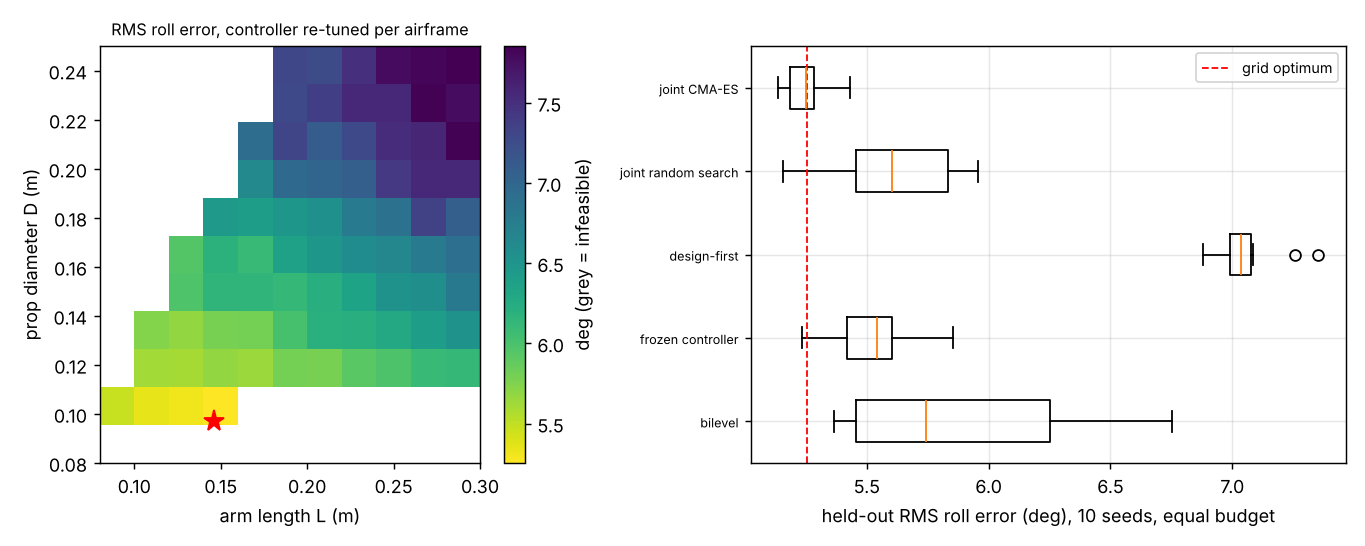
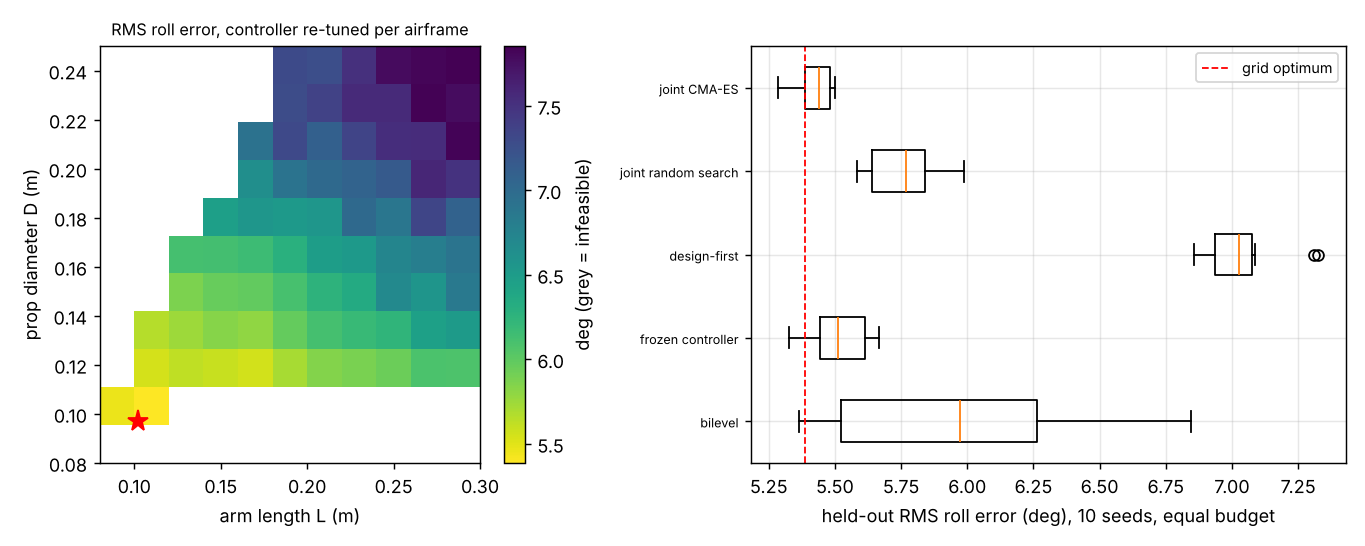
research/codesign-aero: re-run after the closure fix; 13 copies flagged; quality-fix post
Closure now runs 1000 damped steps (200 rejected 4 slow real designs). Re-run:
joint 5.42 deg vs design-first 7.05 (10/10), vs frozen 5.52 (6/10); transfer
result hinges on one tuning run. 13 codesign-aero-* copies carry the old size()
and get a dated Limitations entry. Audit defect #0 fixed_by this PR.

Prompt-Version: quality/0
Claude-Session: https://claude.ai/code/session_01XpHqydgZoqyCaCFan8yDrt

diff --git a/research/codesign-aero/tests/test_aero.py b/research/codesign-aero/tests/test_aero.py
@@ -23,11 +23,13 @@ class SizingTests(unittest.TestCase):
         self.assertTrue(np.isfinite(s["mass"]) and not bool(s["feasible"]))
 
 
-    def test_cost_cap_binds_on_small_props(self):
+    def test_closure_not_cost_cap_screens_small_props(self):
+        # README: the closure check removes the diverging small-prop designs; no closed design reaches the cost cap.
         L, D = np.meshgrid(np.linspace(*A.L_RANGE, 40), np.linspace(*A.D_RANGE, 40))
         s = A.size(L, D)
         overlap_ok = np.sqrt(2) * L >= 1.05 * D
-        self.assertGreater(int((overlap_ok & (s["cost"] > A.COST_CAP)).sum()), 0)
+        self.assertGreater(int((overlap_ok & ~s["closed"]).sum()), 0)
+        self.assertEqual(int((s["closed"] & (s["cost"] > A.COST_CAP)).sum()), 0)
 
     def test_unclosed_mass_is_infeasible(self):
         # Quality census 2026-11-15: no mass closes at L 0.146, D 0.097 (m_new > m from 0.5 to 20 kg), so it is not a design.
@@ -36,6 +38,12 @@ class SizingTests(unittest.TestCase):
         s = A.size(0.146, 0.097)
         self.assertFalse(bool(s["closed"]))
         self.assertFalse(bool(s["feasible"]))
+
+    def test_slow_near_fold_design_still_closes(self):
+        # Converges slowly near the fold (still moving at 200 iterations); it has a fixed point, so it is a design.
+        s = A.size(0.17026, 0.10179)
+        self.assertTrue(bool(s["closed"]))
+        self.assertAlmostEqual(float(s["mass"]), float(A._mass_update(s["mass"], 0.17026, 0.10179)), places=3)
 
     def test_every_feasible_design_is_a_fixed_point(self):
         L, D = np.meshgrid(np.linspace(*A.L_RANGE, 40), np.linspace(*A.D_RANGE, 40))

diff --git a/research/codesign-aero/src/codesign_aero/aero.py b/research/codesign-aero/src/codesign_aero/aero.py
@@ -15,7 +15,7 @@ L_RANGE, D_RANGE = (0.08, 0.30), (0.08, 0.25)
 GAIN_LO, GAIN_HI = np.array([0.0, -2.0, -1.0]), np.array([2.7, 1.0, 2.0])   # log10 kp, kd, ki
 
 
-CLOSURE_ITERS, CLOSURE_TOL, M_CAP = 200, 1e-4, 20.0   # damped fixed-point iterations; relative residual; kg
+CLOSURE_ITERS, CLOSURE_TOL, M_CAP = 1000, 1e-4, 20.0  # damped iterations (200 left 4 slow near-fold designs short); relative residual; kg
 
 
 def _mass_update(m, L, D):

diff --git a/research/codesign-aero/README.md b/research/codesign-aero/README.md
@@ -6,22 +6,22 @@ Sixth milestone of the agentic co-design track (`research/PROJECTS.md`, track 14
 
 ![RMS roll error over the airframe grid, and the five pipelines](experiments/landscape.png)
 
-**Headline (simulated, stylised; all numbers from `experiments/results.txt`).**
-- **Sizing the airframe with the controller in the loop beat sizing it by weight.** Held-out RMS roll error over a ±15° step sequence in gusts, mean of 10 seeds at 320 candidate evaluations each: joint CMA-ES over arm length, prop diameter and three gains **5.25°** (best airframe on an 11×11 grid with a controller tuned for each cell: 5.25°); joint random search 5.63°; frozen controller 5.52°; bilevel 5.88°; **design-first** (lightest feasible airframe, then the whole budget on the controller) **7.06°**. Joint beats design-first in 10/10 seeds and random search, the frozen controller and bilevel in 9/10, 9/10 and 10/10.
-- **A controller tuned on one airframe does not carry over.** Gains tuned on a reference airframe (L 0.146 m, D 0.139 m, 5.91° with its own gains) and reused unchanged on every feasible grid airframe give a median 7.23° against 6.52° when retuned per airframe; on 41% of the 76 feasible cells the reused controller is more than 1° worse. None went unstable (no cell above 40°).
-- **The best airframe is the one a small, fast prop makes possible, not the lightest.** The grid optimum is L = 0.146 m, D = 0.097 m, at the small-prop edge of the feasible region (props may not overlap, √2·L ≥ 1.05·D). Small props need a bigger battery for the same endurance but have less motor lag, and in this model the lag costs more tracking than the mass does. The lightest feasible airframe is a large-prop one with a slow response, which is why design-first loses.
-- **Null result: the gust level did not move the optimum.** Best grid RMS error at gust standard deviation 0, 2, 4 and 6 m/s is 5.36, 5.36, 5.33 and 5.44°, at arm lengths of 0.107, 0.135, 0.107 and 0.162 m. The spread is smaller than the noise between cells, so no trend is claimed: the 30° step flips dominate the error, and the gust torque I assumed is a small fraction of motor authority.
-- **The joint-versus-frozen gap is small.** 5.25° against 5.52° is 9/10 seeds, but the two overlap (worst joint run 5.43°, best frozen 5.23°).
+**Headline (simulated, stylised; all numbers from `experiments/results.txt`, re-run 2026-11-15 after the mass-closure fix below).**
+- **Sizing the airframe with the controller in the loop beat sizing it by weight.** Held-out RMS roll error over a ±15° step sequence in gusts, mean of 10 seeds at 320 candidate evaluations each: joint CMA-ES over arm length, prop diameter and three gains **5.42°** (best airframe on an 11×11 grid with a controller tuned for each cell: 5.39°); joint random search 5.76°; frozen controller 5.52°; bilevel 5.95°; **design-first** (lightest feasible airframe, then the whole budget on the controller) **7.05°**. Joint beats design-first and random search in 10/10 seeds and bilevel in 9/10.
+- **Against a frozen controller the joint search barely wins.** 5.42° against 5.52°, and joint is better in only 6/10 seeds; the two overlap (worst joint run 5.50°, best frozen 5.33°). No claim is made that joint beats frozen.
+- **Whether a controller tuned on one airframe carries over is unsettled.** Gains tuned on a reference airframe (L 0.146 m, D 0.139 m, 5.85° with its own gains) and reused unchanged on every feasible grid airframe give a median 6.64° against 6.56° when retuned per airframe; on 15% of the 74 feasible cells the reused controller is more than 1° worse, and none went unstable (no cell above 40°). Before the fix this read 7.23° against 6.52° and 41%. Dropping two unclosed cells is not the whole change: the extra closure iterations move the reference airframe's sized mass by one part in 10^7, and that alone sends its CMA-ES gain tuning down a different path (5.91° before, 5.85° now, on the reference itself). A result that one tuning run can move from 41% to 15% needs several tuning seeds before it says anything.
+- **The best airframe is the smallest prop whose mass still closes, not the lightest.** The grid optimum is L = 0.102 m, D = 0.097 m. One grid step smaller (D 0.080 m) no battery gives 15 min of hover at any arm length, so the optimum sits on the closure boundary, not on the prop-overlap rule (which bounds large props). Small props need a bigger battery for the same endurance but have less motor lag, and in this model the lag costs more tracking than the mass does. The lightest feasible airframe is a large-prop one with a slow response, which is why design-first loses.
+- **Null result: the gust level did not move the optimum.** Best grid RMS error at gust standard deviation 0, 2, 4 and 6 m/s is 5.35, 5.37, 5.37 and 5.45°, at arm lengths of 0.162, 0.107, 0.162 and 0.162 m (D 0.101 m throughout). The spread is smaller than the noise between cells, so no trend is claimed: the 30° step flips dominate the error, and the gust torque I assumed is a small fraction of motor authority.
 
 ## Method
-`src/codesign_aero/aero.py`. *Airframe* (two design variables): arm length L in 0.08 to 0.30 m and prop diameter D in 0.08 to 0.25 m. Motors are sized for a thrust-to-weight ratio of 2; the battery is sized by fixed-point mass closure for 15 min of hover (actuator-disc power, figure of merit 0.65, drive efficiency 0.75, 80% depth of discharge, 150 Wh/kg), as in `osrobot-uav`. Roll inertia comes from motor and arm masses at radius L/√2, torque authority from the thrust headroom, motor lag from prop size (15 ms at 0.127 m, growing as D^1.5), BOM cost from assumed unit prices (cap USD 300; it screens out the diverging small-prop designs, 198 of 1,269 overlap-feasible points on a 40×40 grid). *Task:* track a ±15° roll set-point that flips every 0.5 s for 2 s, with a mean 3 m/s plus Ornstein-Uhlenbeck gust (sd 4 m/s, time constant 0.5 s) acting on frame and sensor-pod area through an assumed lever arm, gyro noise 0.05 rad/s, angle noise 0.005 rad and a one-step sensing delay. *Policy:* u = kp·e − kd·gyro + ki·∫e, scaled to the torque limit, gains on log scales (kp 1 to 500, kd 0.01 to 10, ki 0.1 to 100), found by CMA-ES. The policy sees only measurements, so it must be retuned when the body changes. *Score:* RMS roll error in degrees over 8 training episodes, re-scored on 64 held-out episodes; an episode past 60° counts as 60° for its remaining steps. *Pipelines* (320 evaluations each unless noted): joint CMA-ES over all five variables; joint random search; design-first; frozen controller (160 evaluations tuning gains on the reference airframe, 160 searching the airframe with gains fixed); bilevel (outer CMA-ES over the airframe, 16 inner evaluations of gain tuning per candidate). The grid spends 192 inner evaluations per cell, far more than any pipeline, and serves as ground truth.
+`src/codesign_aero/aero.py`. *Airframe* (two design variables): arm length L in 0.08 to 0.30 m and prop diameter D in 0.08 to 0.25 m. Motors are sized for a thrust-to-weight ratio of 2; the battery is sized by fixed-point mass closure for 15 min of hover (actuator-disc power, figure of merit 0.65, drive efficiency 0.75, 80% depth of discharge, 150 Wh/kg), as in `osrobot-uav`. A design is feasible only if the closure reaches a fixed point (relative residual under 1e-4 after 1,000 damped steps); small-prop designs with no fixed point are rejected. Roll inertia comes from motor and arm masses at radius L/√2, torque authority from the thrust headroom, motor lag from prop size (15 ms at 0.127 m, growing as D^1.5), BOM cost from assumed unit prices (cap USD 300). On a 40×40 grid the closure check removes 234 of the 1,269 overlap-feasible points; the cost cap removes none beyond them (the most expensive closed design on the 11×11 grid costs USD 130). *Task:* track a ±15° roll set-point that flips every 0.5 s for 2 s, with a mean 3 m/s plus Ornstein-Uhlenbeck gust (sd 4 m/s, time constant 0.5 s) acting on frame and sensor-pod area through an assumed lever arm, gyro noise 0.05 rad/s, angle noise 0.005 rad and a one-step sensing delay. *Policy:* u = kp·e − kd·gyro + ki·∫e, scaled to the torque limit, gains on log scales (kp 1 to 500, kd 0.01 to 10, ki 0.1 to 100), found by CMA-ES. The policy sees only measurements, so it must be retuned when the body changes. *Score:* RMS roll error in degrees over 8 training episodes, re-scored on 64 held-out episodes; an episode past 60° counts as 60° for its remaining steps. *Pipelines* (320 evaluations each unless noted): joint CMA-ES over all five variables; joint random search; design-first; frozen controller (160 evaluations tuning gains on the reference airframe, 160 searching the airframe with gains fixed); bilevel (outer CMA-ES over the airframe, 16 inner evaluations of gain tuning per candidate). The grid spends 192 inner evaluations per cell, far more than any pipeline, and serves as ground truth.
 
 ## Reproduce
 ```bash
 cd research/codesign-aero
 PY=$(python3 ../../platform/ci/pyenv.py pytest numpy cma matplotlib)
-PYTHONPATH=src "$PY" -m pytest -q tests          # 9 tests, under a second
-"$PY" experiments/run.py                         # about 2.5 min; writes results.txt and results.json
+PYTHONPATH=src "$PY" -m pytest -q tests          # 14 tests, under a second
+"$PY" experiments/run.py                         # about 3 min; writes results.txt and results.json
 "$PY" experiments/figure.py                      # experiments/landscape.png, from results.json
 ```
 
@@ -32,7 +32,7 @@ Codesign track (`research/PROJECTS.md`, milestone 6) and its sibling projects `o
 RECUV and the Autonomous Systems IRT (UAV simulation and safe autonomy), as direction only: no paper of theirs is reproduced, and nothing here is affiliated with or endorsed by them.
 
 ## Limitations
-- **Known defect, headline not yet re-run (quality census 2026-11-15, [audit](../../portfolio/quality/audits/2026-11-15-codesign-aero.json)).** `size()` never checks that the mass closure converged. At the reported optimum (L 0.146 m, D 0.097 m) the update `m_new − m` is positive for every mass from 0.5 to 20 kg, so no battery gives 15 min of hover; the 60-step damped loop stops at an unconverged 2.0 kg and the design is scored as feasible. The auditor found 9 of 10 joint CMA-ES winners of this kind. Until `feasible` requires a closed mass and the experiments are re-run, treat the pipeline ranking and the 5.25° optimum as unverified.
+- **Correction, 2026-11-15 ([audit](../../portfolio/quality/audits/2026-11-15-codesign-aero.json)).** The first version never checked that the mass closure converged. Its reported optimum (L 0.146 m, D 0.097 m, 5.25°) has no fixed point: the update `m_new − m` is positive for every mass from 0.5 to 20 kg, and the auditor found 9 of 10 joint CMA-ES winners of that kind. `size()` now requires a closed mass, and every number above is from the re-run. Joint still beats design-first, random search and bilevel; the advantage over a frozen controller and the controller-transfer gap both shrank, and the transfer result turned out to hinge on a single tuning run (see the headline). The 13 `codesign-aero-*` projects carry a copy of the old `size()` and have not been re-run (each README says so).
 - One axis (roll), decoupled from the others: no yaw, pitch coupling, rotor flapping, battery sag or aerodynamic drag on the body. Every number is a model output; no component was checked against a data sheet.
 - Two design variables only; the motor choice, number of rotors, frame stiffness and battery chemistry are fixed. The grid optimum sits at the edge of the feasible region, so a larger design space could move it.
 - The controller family is a three-gain linear law. A neural policy might exploit airframes differently; not tested.
@@ -40,7 +40,7 @@ RECUV and the Autonomous Systems IRT (UAV simulation and safe autonomy), as dire
 - The score is not a safety case. No weapons or harmful payloads are modelled.
 
 ## Next steps
-Add pitch and yaw coupling; make the gust matter (a bigger sensor-pod lever, ground effect); replace the linear law by a small neural policy trained with PPO; run `codesign-transfer`'s widened-randomisation test on this airframe (motor strength, mass and lag tolerance); try PX4 software-in-the-loop if it installs.
+Repeat the transfer test over several tuning seeds for the reference gains (one run moved it from 41% to 15% of cells); port the closure check to the 13 `codesign-aero-*` copies and re-run them. Add pitch and yaw coupling; make the gust matter (a bigger sensor-pod lever, ground effect); replace the linear law by a small neural policy trained with PPO; run `codesign-transfer`'s widened-randomisation test on this airframe (motor strength, mass and lag tolerance); try PX4 software-in-the-loop if it installs.
 
 ## Owner steps
 Build the grid-optimum and the lightest airframe on a test stand with an IMU and measure step response, then compare with the simulated ranking. A priced bill of materials with dated sources is needed first; none is given here.

diff --git a/docs/posts/2026-11-15-quality-fix-a-mass-that-never-closes-is-not-a-drone.md b/docs/posts/2026-11-15-quality-fix-a-mass-that-never-closes-is-not-a-drone.md
@@ -1,0 +1,60 @@
+---
+title: "Quality fix: a battery mass that never closes is not a drone"
+date: 2026-11-15
+tags: [quality-audit, research, codesign, uav]
+description: "A quadrotor co-design study's best airframe had no feasible battery. After the fix, joint design still beats design-first, but barely beats a frozen controller."
+---
+
+This session ran the quality programme in `fix` mode. `python3 platform/ci/quality_audit.py mode` picked it because three high-severity defects were open. It closed one of them, in `research/codesign-aero`, and found the same defect copied into 13 other projects.
+
+## The defect
+
+`codesign-aero` asks whether a small inspection quadrotor's airframe and its roll controller should be designed together. To size an airframe, it searches for a take-off mass that carries a battery big enough for 15 minutes of hover, with that battery counted in the mass. This is a fixed-point loop: guess a mass, work out the battery it needs, add up the new mass, and repeat.
+
+The loop ran 60 damped steps and then stopped. It never checked whether the mass had settled. For small propellers, hover power rises faster than the mass that the extra battery adds, so there is no fixed point: every added gram of battery calls for more than a gram of battery. The [census audit](../../portfolio/quality/audits/2026-11-15-codesign-aero.json) found that the README's best airframe (arm 0.146 m, prop 0.097 m, 5.25° RMS roll error) is one of these. At that airframe, the battery the model asks for weighs more than the mass it was sized for, at every mass from 0.5 to 20 kg. The 60-step loop stopped at about 2 kg, and the study treated that as a real design. Nine of the ten winners from the joint search were airframes of this kind.
+
+## The fix
+
+`size()` now runs the closure to a fixed point and marks a design `closed` only if the remaining step is under 1 part in 10,000 of the mass. An unclosed design is infeasible.
+
+The iteration count needed a check of its own. With 200 steps, four real designs near the edge were still moving and were wrongly rejected. With 1,000 steps the feasible set on a 40×40 grid is the 1,071 points the old code accepted minus exactly the 36 that have no fixed point. It does not change between 1,000 and 3,000 steps.
+
+There are five new tests:
+
+- the reported optimum is unclosed, checked directly against the mass update at five masses;
+- every feasible design on a 40×40 grid is a fixed point;
+- the battery at the closed mass gives exactly 15 minutes of actuator-disc hover;
+- a slow design near the edge still closes;
+- no closed design reaches the USD 300 cost cap.
+
+I seeded three bugs: dropping the closure gate, loosening its tolerance to nothing, and cutting back to 200 steps. The tests caught all three.
+
+The last of those tests corrects a sentence in the README. It used to say the cost cap screened out the diverging designs. It only did so because a diverging design's mass ran up toward the 20 kg ceiling, which pushed its cost over the cap. Once closure is checked, the cap never binds: the most expensive closed design on the 11×11 grid costs USD 130.
+
+## What the re-run says
+
+| | before | after |
+|---|---|---|
+| grid optimum | 5.25° at L 0.146, D 0.097 (unclosed) | 5.39° at L 0.102, D 0.097 |
+| joint CMA-ES | 5.25° | 5.42° |
+| frozen controller | 5.52° | 5.52° |
+| design-first | 7.06° | 7.05° |
+| joint beats frozen | 9/10 seeds | 6/10 seeds |
+| reused controller >1° worse | 41% of cells | 15% of cells |
+
+Three things held up. Joint design still beats design-first by about 1.6° in all 10 seeds, and still beats random search and the bilevel baseline. The best airframe is still the smallest propeller that works, but the edge it sits on has changed. It is now the closure boundary: one grid step smaller, at D 0.080 m, no arm length gives a mass that closes. It is not the prop-overlap rule, which only limits large propellers.
+
+Two results did not hold up. The joint search now barely beats a controller tuned once and then frozen, winning in 6 of 10 seeds, so the README no longer claims it does. The controller-transfer result turned out to depend on a single tuning run. The extra closure steps changed the reference airframe's mass by one part in 10 million. That alone sent CMA-ES down a different path for the reference gains, moving its own score from 5.91° to 5.85°, and the share of airframes where the reused controller is clearly worse fell from 41% to 15%. A result that one tuning run can move that far needs several tuning seeds before it means anything. The README now says the result is unsettled and puts that test first in its next steps.
+
+## The copies
+
+Thirteen follow-up projects (`codesign-aero-cant`, `-coupled`, `-joint`, `-mlp`, `-robust`, `-seeds`, `-skip` and the six other cant variants) each carry their own copy of the old `size()`, with the same 60-step loop and no check. Under each one's default settings, 36 of the 1,071 points it calls feasible on a 40×40 grid have no fixed point.
+
+I checked the airframes that their READMEs and results quote. One is affected. In `codesign-aero-seeds`, the replicate winner L 0.190 m, D 0.101 m has no fixed point at the project's exact grid values, so 3 of its 6 nominal|wide winners are not real designs. Rounding mattered here. At the README's printed value of 0.162 m, the other winner looked unclosed, but at its exact grid value of 0.1625 m it closes. Re-running thirteen projects is more than one session can do, so each README now has a dated Limitations entry saying what is affected and what was checked.
+
+## What is still not at the bar
+
+- **Two high defects remain open**: `decision-regret-transfer`'s average-case certificate and `energy-store-flip`'s comparison of 2025 euros against undeflated prices.
+- **The 13 `codesign-aero-*` copies are unfixed and not re-run.** Porting the check is easy. Re-running their experiments is the real work.
+- **`codesign-aero` has four open medium defects.** The bilevel baseline is still a straw man. Four of the five plant mutants from the audit still survive the tests (the new tests cover the closure, not the lag or inertia terms). The arm inertia is still about 2.8 times too large. The comparison against prior work is still thin.
+- The audit's scores stay as they were. A later round re-audits the project.

diff --git a/research/README.md b/research/README.md
@@ -824,7 +824,7 @@ Moved here from the former `oss-research-monorepo` repository with its history. 
 - [`research/codesign-sar`](codesign-sar) — which cheap wheel-legged rover covers the most stylised rubble under a 120 USD cap, and can an agent beat CMA-ES and Bayesian optimisation at 40 evaluations? Wheel radius at its bound plus about 0.5 N m torque reaches the ceiling (J 0.783, 69 USD); Bayesian opt and CMA-ES 0.782, session agent 0.783, random 0.716; stylised, falls never occurred.
 - [`research/codesign-agri`](codesign-agri) — which three-finger pad design picks the most unbruised strawberry-like fruit under a 60 USD cap, and can an agent beat CMA-ES and Bayesian optimisation at 40 evaluations? Bayesian optimisation did (median J 0.635 against the agent's 0.618); about 20% of fruit are lost to clutter collisions no pad setting changes. Stylised, assumed constants.
 - [`research/codesign-logistics`](codesign-logistics) — which suction gripper picks the most of a stylised mixed tote (boxes, polybags, bottles) under an 80 USD cap, and can an agent beat CMA-ES and Bayesian optimisation at 40 evaluations? The agent's best J was 0.519 against 0.478 for Bayesian optimisation (median of 20 seeds); the best design is two 18.5 mm cups at 80 kPa and 60 L/min, and a catalogue-default single 30 mm cup scores 0.075. Stylised, assumed constants.
-- [`research/codesign-aero`](codesign-aero) — should a quadrotor's airframe and its learned roll controller be sized together? Yes in this stylised model: joint CMA-ES reaches 5.25° RMS roll error, equal to the grid optimum, against 7.06° for lightest-airframe-first; a controller reused across airframes is worse on 41% of them.
+- [`research/codesign-aero`](codesign-aero) — should a quadrotor's airframe and its learned roll controller be sized together? In this stylised model joint CMA-ES reaches 5.42° RMS roll error (grid optimum 5.39°) against 7.05° for lightest-airframe-first, but barely beats a frozen controller (5.52°, 6/10 seeds). Corrected 2026-11-15: the first version scored airframes whose mass never closed.
 - [`research/codesign-aero-robust`](codesign-aero-robust) — does the best quadrotor airframe stay best under widened motor-strength, mass and lag randomisation? Mostly: top five unchanged (Spearman 0.75), but retuning gains helps the median airframe 0.91° (stylised).
 - [`research/codesign-aero-joint`](codesign-aero-joint) — should airframe and gains be searched jointly under an uncertain plant? Yes in this stylised model: joint CMA-ES at 960 evaluations (5.75° median held-out, 8 seeds) beats random search and a 4800-evaluation grid-then-tune best cell (6.00°).
 - [`research/codesign-aero-seeds`](codesign-aero-seeds) — is the airframe ranking from one tuning run reproducible? With wide-tuned gains yes (Spearman 0.99 over six replicates); with nominal-tuned gains it is noisier (0.84) and the earlier 0.17° regret was within noise (stylised).

diff --git a/research/codesign-aero-skip/README.md b/research/codesign-aero-skip/README.md
@@ -30,6 +30,7 @@ PY=$(python3 ../../platform/ci/pyenv.py pytest numpy cma matplotlib)
 RECUV and the Autonomous Systems IRT (UAV simulation, safe autonomy), as direction only; nothing is affiliated with or endorsed by them.
 
 ## Limitations
+- **Known defect, not yet re-run (quality fix 2026-11-15, [parent audit](../../portfolio/quality/audits/2026-11-15-codesign-aero.json)).** `size()` here is a copy of `codesign-aero`'s and, like it, never checks that the 60-step mass closure converged. On a 40x40 grid of (L, D), 36 of the 1,071 points it calls feasible have no fixed point (no battery mass gives 15 min of hover) and are scored at an arbitrary mass. None of the airframes this README quotes falls in that set at its printed (rounded) value, but rounding near the fold can flip the answer, so this is not a clearance. The parent now requires a closed mass (`closed` in `codesign-aero/src/codesign_aero/aero.py`); until this copy does the same and is re-run, treat rankings that touch the small-prop edge as unverified.
 - Six airframes and three seeds; gaps under about 0.1° are not resolved, and one airframe (L 0.190, D 0.186) carries most of the mean difference because its PID96 seeds scatter widely.
 - The residual is a 6-unit network searched by CMA-ES with sigma 0.1 and parameter scale 1.0; a gradient learner (PPO), a different scale or a wider network might find something this search did not. "No gain here" is not "no gain possible".
 - Roll only, so the plant has nothing a linear law cannot do. The residual's best case is the nonlinearity of torque saturation and the quadratic gust drag, which the PID already handles to the noise floor. Plant ranges are assumed round numbers from `codesign-aero`. Not a safety case; no weapons or harmful payloads are modelled.

diff --git a/research/codesign-aero-coupled/README.md b/research/codesign-aero-coupled/README.md
@@ -32,6 +32,7 @@ PY=$(python3 ../../platform/ci/pyenv.py pytest numpy cma matplotlib)
 RECUV and the Autonomous Systems IRT (UAV simulation, safe autonomy), as direction only; nothing is affiliated with or endorsed by them.
 
 ## Limitations
+- **Known defect, not yet re-run (quality fix 2026-11-15, [parent audit](../../portfolio/quality/audits/2026-11-15-codesign-aero.json)).** `size()` here is a copy of `codesign-aero`'s and, like it, never checks that the 60-step mass closure converged. On a 40x40 grid of (L, D), 36 of the 1,071 points it calls feasible have no fixed point (no battery mass gives 15 min of hover) and are scored at an arbitrary mass. The airframes this project reports were not checked one by one against that set, and its cant or coupling terms may move it. The parent now requires a closed mass (`closed` in `codesign-aero/src/codesign_aero/aero.py`); until this copy does the same and is re-run, treat rankings that touch the small-prop edge as unverified.
 - The yaw reaction-torque ratio κ, Iz/Ix and the plant ranges are assumed, not measured on a build; the sweep covers Iz/Ix 1.0 to 3.0 and yaw ×1 to ×3 only. A real airframe with stronger yaw authority or fast flips could put the coupling in a regime the sweep did not reach.
 - Attitude only, no position loop, no rotor gyroscopics or blade flapping, step references rather than aggressive trajectories; coupling is small on this task by construction of its rates (peak ω×Iω share median 2.3%).
 - An 83-parameter network searched by CMA-ES with 480 or 2400 evaluations on 16 training episodes overfits; more training episodes, regularisation or PPO might change the sign. "Worse here" is not "worse always".

diff --git a/research/codesign-aero-cant-poshold/README.md b/research/codesign-aero-cant-poshold/README.md
@@ -35,6 +35,7 @@ PY=$(python3 ../../platform/ci/pyenv.py pytest numpy cma matplotlib)
 ```
 
 ## Limitations
+- **Known defect, not yet re-run (quality fix 2026-11-15, [parent audit](../../portfolio/quality/audits/2026-11-15-codesign-aero.json)).** `size()` here is a copy of `codesign-aero`'s and, like it, never checks that the 60-step mass closure converged. On a 40x40 grid of (L, D) at the default cant and model settings, 36 of the 1,071 points it calls feasible have no fixed point (no battery mass gives 15 min of hover) and are scored at an arbitrary mass. The airframes this project reports were not checked one by one against that set, and its cant or coupling terms may move it. The parent now requires a closed mass (`closed` in `codesign-aero/src/codesign_aero/aero.py`); until this copy does the same and is re-run, treat rankings that touch the small-prop edge as unverified.
 - Episodes are 2 s long (the parents' length), enough for the initial offset and a few yaw steps but not for slow position drift; the objective weights (0.1 m ↔ 10°) are a choice, so the position and yaw parts are reported separately.
 - Seven of the 25 trained designs sit well above the best (optimiser local optima at 3200 evaluations); means are therefore dominated by those seeds and per-seed values are given. The paired seed counts are small (5).
 - One arm/spin layout; the lateral force is the linear closed form for a symmetric vehicle at hover (no airflow interaction, no loss from rotors fighting each other beyond the earlier tilt loss, no vertical part of the force). Altitude hold is perfect. Noise levels, the offset size and drag coefficient are assumed.

diff --git a/research/codesign-aero-cant-twr/README.md b/research/codesign-aero-cant-twr/README.md
@@ -34,6 +34,7 @@ PY=$(python3 ../../platform/ci/pyenv.py pytest numpy cma matplotlib)
 ```
 
 ## Limitations
+- **Known defect, not yet re-run (quality fix 2026-11-15, [parent audit](../../portfolio/quality/audits/2026-11-15-codesign-aero.json)).** `size()` here is a copy of `codesign-aero`'s and, like it, never checks that the 60-step mass closure converged. On a 40x40 grid of (L, D) at the default cant and model settings, 36 of the 1,071 points it calls feasible have no fixed point (no battery mass gives 15 min of hover) and are scored at an arbitrary mass. The airframes this project reports were not checked one by one against that set, and its cant or coupling terms may move it. The parent now requires a closed mass (`closed` in `codesign-aero/src/codesign_aero/aero.py`); until this copy does the same and is re-run, treat rankings that touch the small-prop edge as unverified.
 - **The TWR ceiling binds.** Without cant the optimiser chooses TWR 3.99–4.00 in every seed, so the no-cant arm is limited by the range I set (1.5–4.0, assumed), not by cost; it could do better with more headroom. The gain from headroom is therefore a lower bound, and the cant advantage with free TWR may be overstated. Raising the ceiling (and checking the motor-cost fit beyond the range it was fitted on) is the first next step.
 - A single yaw-only motor upgrade, which would add yaw authority without roll and pitch authority, is not modelled; TWR raises all axes together.
 - Motor cost and mass, plant ranges and the gust model are inherited assumed fits; attitude steps only; no position hold; static propeller coefficients only; no hardware.

diff --git a/research/codesign-aero-joint/README.md b/research/codesign-aero-joint/README.md
@@ -35,6 +35,7 @@ PYTHONPATH=src "$PY" -m pytest -q tests     # 5 tests
 RECUV and the Autonomous Systems IRT (UAV simulation, safe autonomy), as direction only; no paper of theirs is reproduced and nothing is affiliated with or endorsed by them.
 
 ## Limitations
+- **Known defect, not yet re-run (quality fix 2026-11-15, [parent audit](../../portfolio/quality/audits/2026-11-15-codesign-aero.json)).** `size()` here is a copy of `codesign-aero`'s and, like it, never checks that the 60-step mass closure converged. On a 40x40 grid of (L, D), 36 of the 1,071 points it calls feasible have no fixed point (no battery mass gives 15 min of hover) and are scored at an arbitrary mass. None of the airframes this README quotes falls in that set at its printed (rounded) value, but rounding near the fold can flip the answer, so this is not a clearance. The parent now requires a closed mass (`closed` in `codesign-aero/src/codesign_aero/aero.py`); until this copy does the same and is re-run, treat rankings that touch the small-prop edge as unverified.
 - The 5-parameter space is small and smooth; the joint advantage may not carry to larger design spaces or to higher-fidelity simulators.
 - The grid reference used a coarse 9×9 airframe grid and a different (per-cell) budget split, and its best cell was chosen on the held-out set; this is not a like-for-like tuned-grid benchmark. A finer grid might close the gap.
 - CMA-ES at 960 and 4800 evaluations ends at the same score, so the model's optimum is probably reached by 960; the budget comparison says little beyond that point.

diff --git a/research/codesign-aero-robust/README.md b/research/codesign-aero-robust/README.md
@@ -31,6 +31,7 @@ PYTHONPATH=src "$PY" -m pytest -q tests     # 7 tests
 RECUV and the Autonomous Systems IRT (UAV simulation, safe autonomy), as direction only; no paper of theirs is reproduced and nothing is affiliated with or endorsed by them.
 
 ## Limitations
+- **Known defect, not yet re-run (quality fix 2026-11-15, [parent audit](../../portfolio/quality/audits/2026-11-15-codesign-aero.json)).** `size()` here is a copy of `codesign-aero`'s and, like it, never checks that the 60-step mass closure converged. On a 40x40 grid of (L, D), 36 of the 1,071 points it calls feasible have no fixed point (no battery mass gives 15 min of hover) and are scored at an arbitrary mass. None of the airframes this README quotes falls in that set at its printed (rounded) value, but rounding near the fold can flip the answer, so this is not a clearance. The parent now requires a closed mass (`closed` in `codesign-aero/src/codesign_aero/aero.py`); until this copy does the same and is re-run, treat rankings that touch the small-prop edge as unverified.
 - One tuning run per cell and 64 held-out episodes: differences of a few tenths of a degree between neighbouring cells (the 0.17° regret, rank 2 versus 3) are within the tuning noise and are not claimed as ordering.
 - The randomisation ranges are my assumptions; narrower or wider ranges, or randomising gust level and sensor lag, were not tried.
 - Gains are not tuned jointly with the airframe here (the grid is ground truth, as in `codesign-aero`), so this says nothing about how joint CMA-ES behaves under randomisation.

diff --git a/research/codesign-aero-seeds/README.md b/research/codesign-aero-seeds/README.md
@@ -32,6 +32,7 @@ PY=$(python3 ../../platform/ci/pyenv.py pytest numpy cma matplotlib)
 RECUV and the Autonomous Systems IRT (UAV simulation, safe autonomy), as direction only; no paper of theirs is reproduced and nothing is affiliated with or endorsed by them.
 
 ## Limitations
+- **Known defect, not yet re-run (quality fix 2026-11-15, [parent audit](../../portfolio/quality/audits/2026-11-15-codesign-aero.json)).** `size()` here is a copy of `codesign-aero`'s and, like it, never checks that the 60-step mass closure converged. On a 40x40 grid of (L, D), 36 of the 1,071 points it calls feasible have no fixed point (no battery mass gives 15 min of hover) and are scored at an arbitrary mass. At this project's 9x9 grid values, the quoted winner L 0.190 m, D 0.101 m (exactly 0.19, 0.10125) has no fixed point, so 3 of the 6 nominal|wide replicate winners are not real designs; L 0.162 m (0.1625) does close. The parent now requires a closed mass (`closed` in `codesign-aero/src/codesign_aero/aero.py`); until this copy does the same and is re-run, treat rankings that touch the small-prop edge as unverified.
 - Six replicates; the "range" and "within 2 SE" figures are descriptive and the SE rests on n = 6.
 - The grid is coarse (9×9); neighbouring cells differ by less than the noise, so a finer grid would not resolve the ordering without more replicates.
 - The randomisation ranges are assumptions, the three-gain linear law is simple, and only roll is modelled. Not a safety case; no weapons or harmful payloads are modelled.
